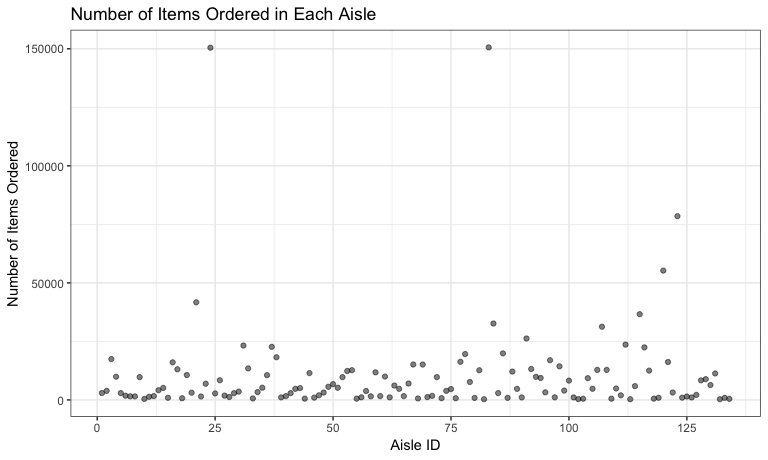
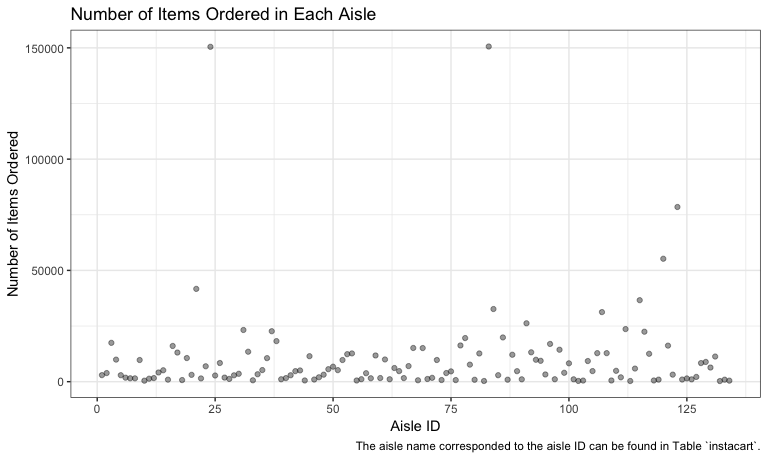
version updated

diff --git a/p8105_hw3_jt3098.md b/p8105_hw3_jt3098.md
@@ -59,6 +59,8 @@ brfss_smart2010 %>%
 
 <img src="p8105_hw3_jt3098_files/figure-markdown_github/Spaghetti plot-1.png" width="100%" />
 
+Comments:
+
 ``` r
 brfss_prop_020610 = 
   brfss_smart2010 %>%
@@ -66,6 +68,8 @@ brfss_prop_020610 =
   group_by(year) %>%
   summarise(mean = mean(data_value), standard_deviation = sd(data_value))
 ```
+
+Comments:
 
 ``` r
 brfss_prop_each = 
@@ -90,6 +94,8 @@ ggplot(brfss_prop_each, aes(x = year, y = average_proportion, color = locationab
     ## Warning: Removed 1 rows containing missing values (geom_path).
 
 <img src="p8105_hw3_jt3098_files/figure-markdown_github/Five-panel Plot-1.png" width="100%" />
+
+Comments:
 
 Problem 2
 ---------
@@ -136,11 +142,13 @@ instacart %>%
   group_by(aisle_id) %>%
   summarise(total_aisle = n()) %>%
   ggplot(aes(x = aisle_id, y = total_aisle)) +
-  geom_point(alpha = 0.5) +
+  geom_point(alpha = 0.4) +
   labs(
     x = "Aisle ID",
     y = "Number of Items Ordered",
-    title = "Number of Items Ordered in Each Aisle"
+    title = "Number of Items Ordered in Each Aisle",
+    caption = "The aisle name corresponded to the aisle ID can be found in Table `instacart`."
+
   ) +
   scale_x_continuous(
     breaks = c(0, 25, 50, 75, 100, 125, 150),
@@ -150,3 +158,40 @@ instacart %>%
 ```
 
 <img src="p8105_hw3_jt3098_files/figure-markdown_github/plots of number of items ordered in each aisle-1.png" width="100%" />
+
+Comments:
+
+``` r
+pop_items_aisle = 
+  instacart %>%
+  filter(aisle %in% c("baking ingredients", "dog food care", "packaged vegetables fruits")) %>%
+  group_by(aisle, product_name) %>%
+  summarise(number_of_items = n()) %>%
+  filter(number_of_items == max(number_of_items))
+```
+
+Comments: The most popular item in aisle "baking ingredients" is Light Brown Sugar with 499 orders; while the Snack Stick Chicken & Rice Recipe Dog Treats is ordered most in "dog food care" with 30 times, and Organic Baby Spinach is ordered most in "packaged vegetables fruits" with 9794 times.
+
+``` r
+mean_hour_of_day_table = 
+  instacart %>%
+  filter(product_name %in% c("Pink Lady Apples", "Coffee Ice Cream")) %>%
+  group_by(product_name, order_dow) %>%
+  summarise(mean_hour_of_a_day = mean(order_hour_of_day)) %>%
+  spread(key = order_dow, value = mean_hour_of_a_day) %>%
+  `colnames<-`(c("Product Name", "Sun", "Mon", "Tue", "Wed", "Thr", "Fri", "Sat"))
+```
+
+Comments: For both Coffee Ice Crean and Pink Lady Apples, Sunday and Saturday have the highest mean order hour within this week. Generally speaking, Coffee Ice Cream has a longer order hour than Pink Lady Appples on each day of this week.
+
+Problem 3
+---------
+
+``` r
+data("ny_noaa")
+
+ny_noaa = 
+  ny_noaa %>%
+  janitor::clean_names() %>%
+  separate(col = date, into = c("year", "month", "day"), sep = "-")
+```
